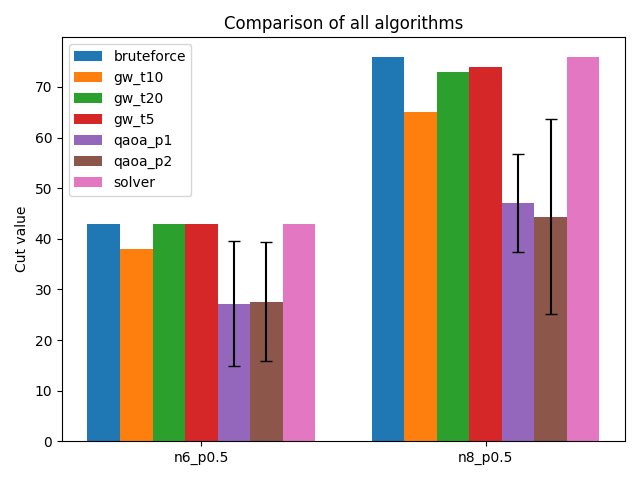
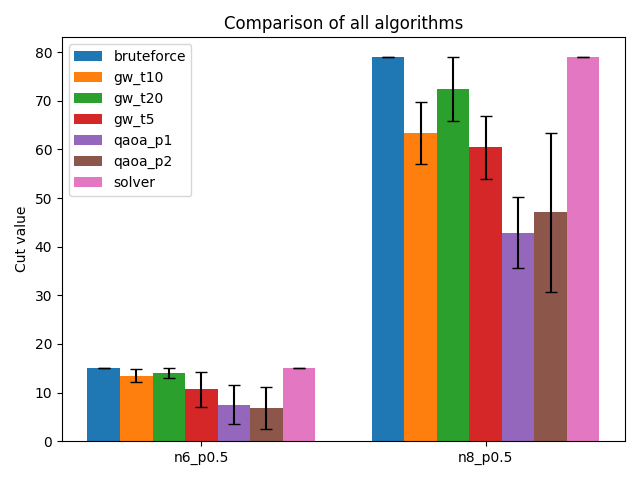
fix

diff --git a/experiments/run_experiments.py b/experiments/run_experiments.py
@@ -15,78 +15,76 @@ from src import (
 )
 
 defaults = {
-    "gw_trials": [5],
-    "qaoa_depths": [1],
-    "qaoa_steps": [50],
-    "qaoa_repeats": 5,
+    "exact_repeats": 5,
+    "gw_trials":     [5, 10, 20],
+    "gw_repeats":    10,
+    "qaoa_depths":   [1, 2],
+    "qaoa_steps":    [50],
+    "qaoa_repeats":  10,
 }
 
 def load_config(path: str) -> dict:
     with open(path, "r", encoding="utf-8") as f:
         cfg = yaml.safe_load(f)
     alg = cfg.setdefault("algorithms", {})
-    alg.setdefault("gw_trials", defaults["gw_trials"])
-    alg.setdefault("qaoa_depths", defaults["qaoa_depths"])
-    alg.setdefault("qaoa_steps", defaults["qaoa_steps"])
-    alg.setdefault("qaoa_repeats", defaults["qaoa_repeats"])
+    alg.setdefault("exact_repeats", defaults["exact_repeats"])
+    alg.setdefault("gw_trials",     defaults["gw_trials"])
+    alg.setdefault("gw_repeats",    defaults["gw_repeats"])
+    alg.setdefault("qaoa_depths",   defaults["qaoa_depths"])
+    alg.setdefault("qaoa_steps",    defaults["qaoa_steps"])
+    alg.setdefault("qaoa_repeats",  defaults["qaoa_repeats"])
     return cfg
 
 def run(config_path: str) -> None:
-    cfg = load_config(config_path)
-    results: list[dict] = []
+    cfg     = load_config(config_path)
+    results = []
+
     for spec in cfg["graphs"]:
-        g = generate_random_graph(
-            spec["n"],
-            spec.get("p", 0.5),
-            tuple(spec.get("weight_range", [1, 10])),
-        )
+        g     = generate_random_graph(
+                    spec["n"],
+                    spec.get("p", 0.5),
+                    tuple(spec.get("weight_range", [1, 10])),
+                )
         label = f"n{spec['n']}_p{spec.get('p',0.5)}"
 
-        t0 = time.perf_counter()
-        _, val = maxcut_bruteforce(g)
-        results.append({
-            "alg": "bruteforce",
-            "graph": label,
-            "value": val,
-            "time": time.perf_counter() - t0,
-        })
-
-        t0 = time.perf_counter()
-        _, val = maxcut_solver(g)
-        results.append({
-            "alg": "solver",
-            "graph": label,
-            "value": val,
-            "time": time.perf_counter() - t0,
-        })
-
-        for trials in cfg["algorithms"]["gw_trials"]:
+        # exact algorithms repeated
+        for _ in range(cfg["algorithms"]["exact_repeats"]):
             t0 = time.perf_counter()
-            _, val = maxcut_goemans_williamson(g, trials=trials)
-            results.append({
-                "alg": f"gw_t{trials}",
-                "graph": label,
-                "value": val,
-                "time": time.perf_counter() - t0,
-            })
+            _, v = maxcut_bruteforce(g)
+            results.append({"alg":"bruteforce","graph":label,"value":v,"time":time.perf_counter()-t0})
+            t0 = time.perf_counter()
+            _, v = maxcut_solver(g)
+            results.append({"alg":"solver","graph":label,"value":v,"time":time.perf_counter()-t0})
 
+        # Goemans–Williamson with repeats
+        for trials in cfg["algorithms"]["gw_trials"]:
+            for r in range(cfg["algorithms"]["gw_repeats"]):
+                t0 = time.perf_counter()
+                _, v = maxcut_goemans_williamson(g, trials=trials)
+                results.append({
+                    "alg":  f"gw_t{trials}_r{r}",
+                    "graph":label,
+                    "value":v,
+                    "time": time.perf_counter()-t0,
+                })
+
+        # QAOA with repeats
         steps = cfg["algorithms"]["qaoa_steps"][0]
         for p in cfg["algorithms"]["qaoa_depths"]:
             for r in range(cfg["algorithms"]["qaoa_repeats"]):
                 t0 = time.perf_counter()
-                _, val = maxcut_qaoa(g, p=p, steps=steps)
+                _, v = maxcut_qaoa(g, p=p, steps=steps)
                 results.append({
-                    "alg": f"qaoa_p{p}_r{r}",
-                    "graph": label,
-                    "value": val,
-                    "time": time.perf_counter() - t0,
+                    "alg":  f"qaoa_p{p}_r{r}",
+                    "graph":label,
+                    "value":v,
+                    "time": time.perf_counter()-t0,
                 })
 
     df = pd.DataFrame(results)
     Path("results").mkdir(exist_ok=True)
-    out_path = Path("results") / "results.jsonl"
-    df.to_json(out_path, orient="records", lines=True)
-    print(f"Saved results to {out_path}")
+    df.to_json(Path("results")/"results.jsonl", orient="records", lines=True)
+    print("Saved results to results/results.jsonl")
 
 def parse_args() -> argparse.Namespace:
     p = argparse.ArgumentParser()
@@ -94,5 +92,4 @@ def parse_args() -> argparse.Namespace:
     return p.parse_args()
 
 if __name__ == "__main__":
-    args = parse_args()
-    run(args.config)
+    run(parse_args().config)

diff --git a/src/exact_solver.py b/src/exact_solver.py
@@ -1,4 +1,4 @@
-"""Solver-based exact algorithm for Maximum Cut using Gurobi."""
+
 from __future__ import annotations
 
 from typing import Tuple, List
@@ -9,43 +9,35 @@ from gurobipy import GRB
 
 
 def maxcut_solver(g: nx.Graph) -> Tuple[List[int], float]:
-    """
-    Solve the max-cut problem by formulating it as a mixed-integer
-    linear program in Gurobi.
 
-    Returns:
-        cut: List of node indices on one side of the cut.
-        value: Total weight of the cut.
-    """
-    # Create model
     m = gp.Model("maxcut")
 
-    # Binary decision variables x_i ∈ {0,1}, one per node
+
     x = {i: m.addVar(vtype=GRB.BINARY, name=f"x_{i}") for i in g.nodes()}
 
-    # For each edge (i,j), binary y_{ij}=1 if i and j are separated
+
     y = {}
     for i, j, data in g.edges(data=True):
         w = data.get("weight", 1.0)
         y[i, j] = m.addVar(vtype=GRB.BINARY, name=f"y_{i}_{j}")
-        # McCormick constraints: y ≥ x_i - x_j, y ≥ x_j - x_i
+
         m.addConstr(y[i, j] >= x[i] - x[j], name=f"c1_{i}_{j}")
         m.addConstr(y[i, j] >= x[j] - x[i], name=f"c2_{i}_{j}")
         # and y ≤ x_i + x_j, y ≤ 2 - x_i - x_j
         m.addConstr(y[i, j] <= x[i] + x[j], name=f"c3_{i}_{j}")
         m.addConstr(y[i, j] <= 2 - x[i] - x[j], name=f"c4_{i}_{j}")
 
-    # Set objective: maximize sum_{(i,j)} w_{ij} * y_{ij}
+
     obj = gp.quicksum(data.get("weight", 1.0) * y[i, j] for i, j, data in g.edges(data=True))
     m.setObjective(obj, GRB.MAXIMIZE)
 
-    # Silence Gurobi output if you want:
+
     m.Params.OutputFlag = 0
 
-    # Optimize
+
     m.optimize()
 
-    # Extract solution
+
     cut = [i for i in g.nodes() if x[i].X > 0.5]
     value = m.ObjVal
 

diff --git a/src/data.py b/src/data.py
@@ -1,4 +1,4 @@
-"""Graph loaders and instance generators."""
+
 
 from __future__ import annotations
 

diff --git a/src/exact_bruteforce.py b/src/exact_bruteforce.py
@@ -1,4 +1,3 @@
-"""Brute-force exact algorithm for Maximum Cut."""
 
 from __future__ import annotations
 
@@ -9,7 +8,6 @@ import networkx as nx
 
 
 def maxcut_bruteforce(g: nx.Graph) -> Tuple[List[int], float]:
-    """Compute maximum cut by exhaustive search."""
     best_cut = []
     best_value = float('-inf')
     nodes = list(g.nodes())